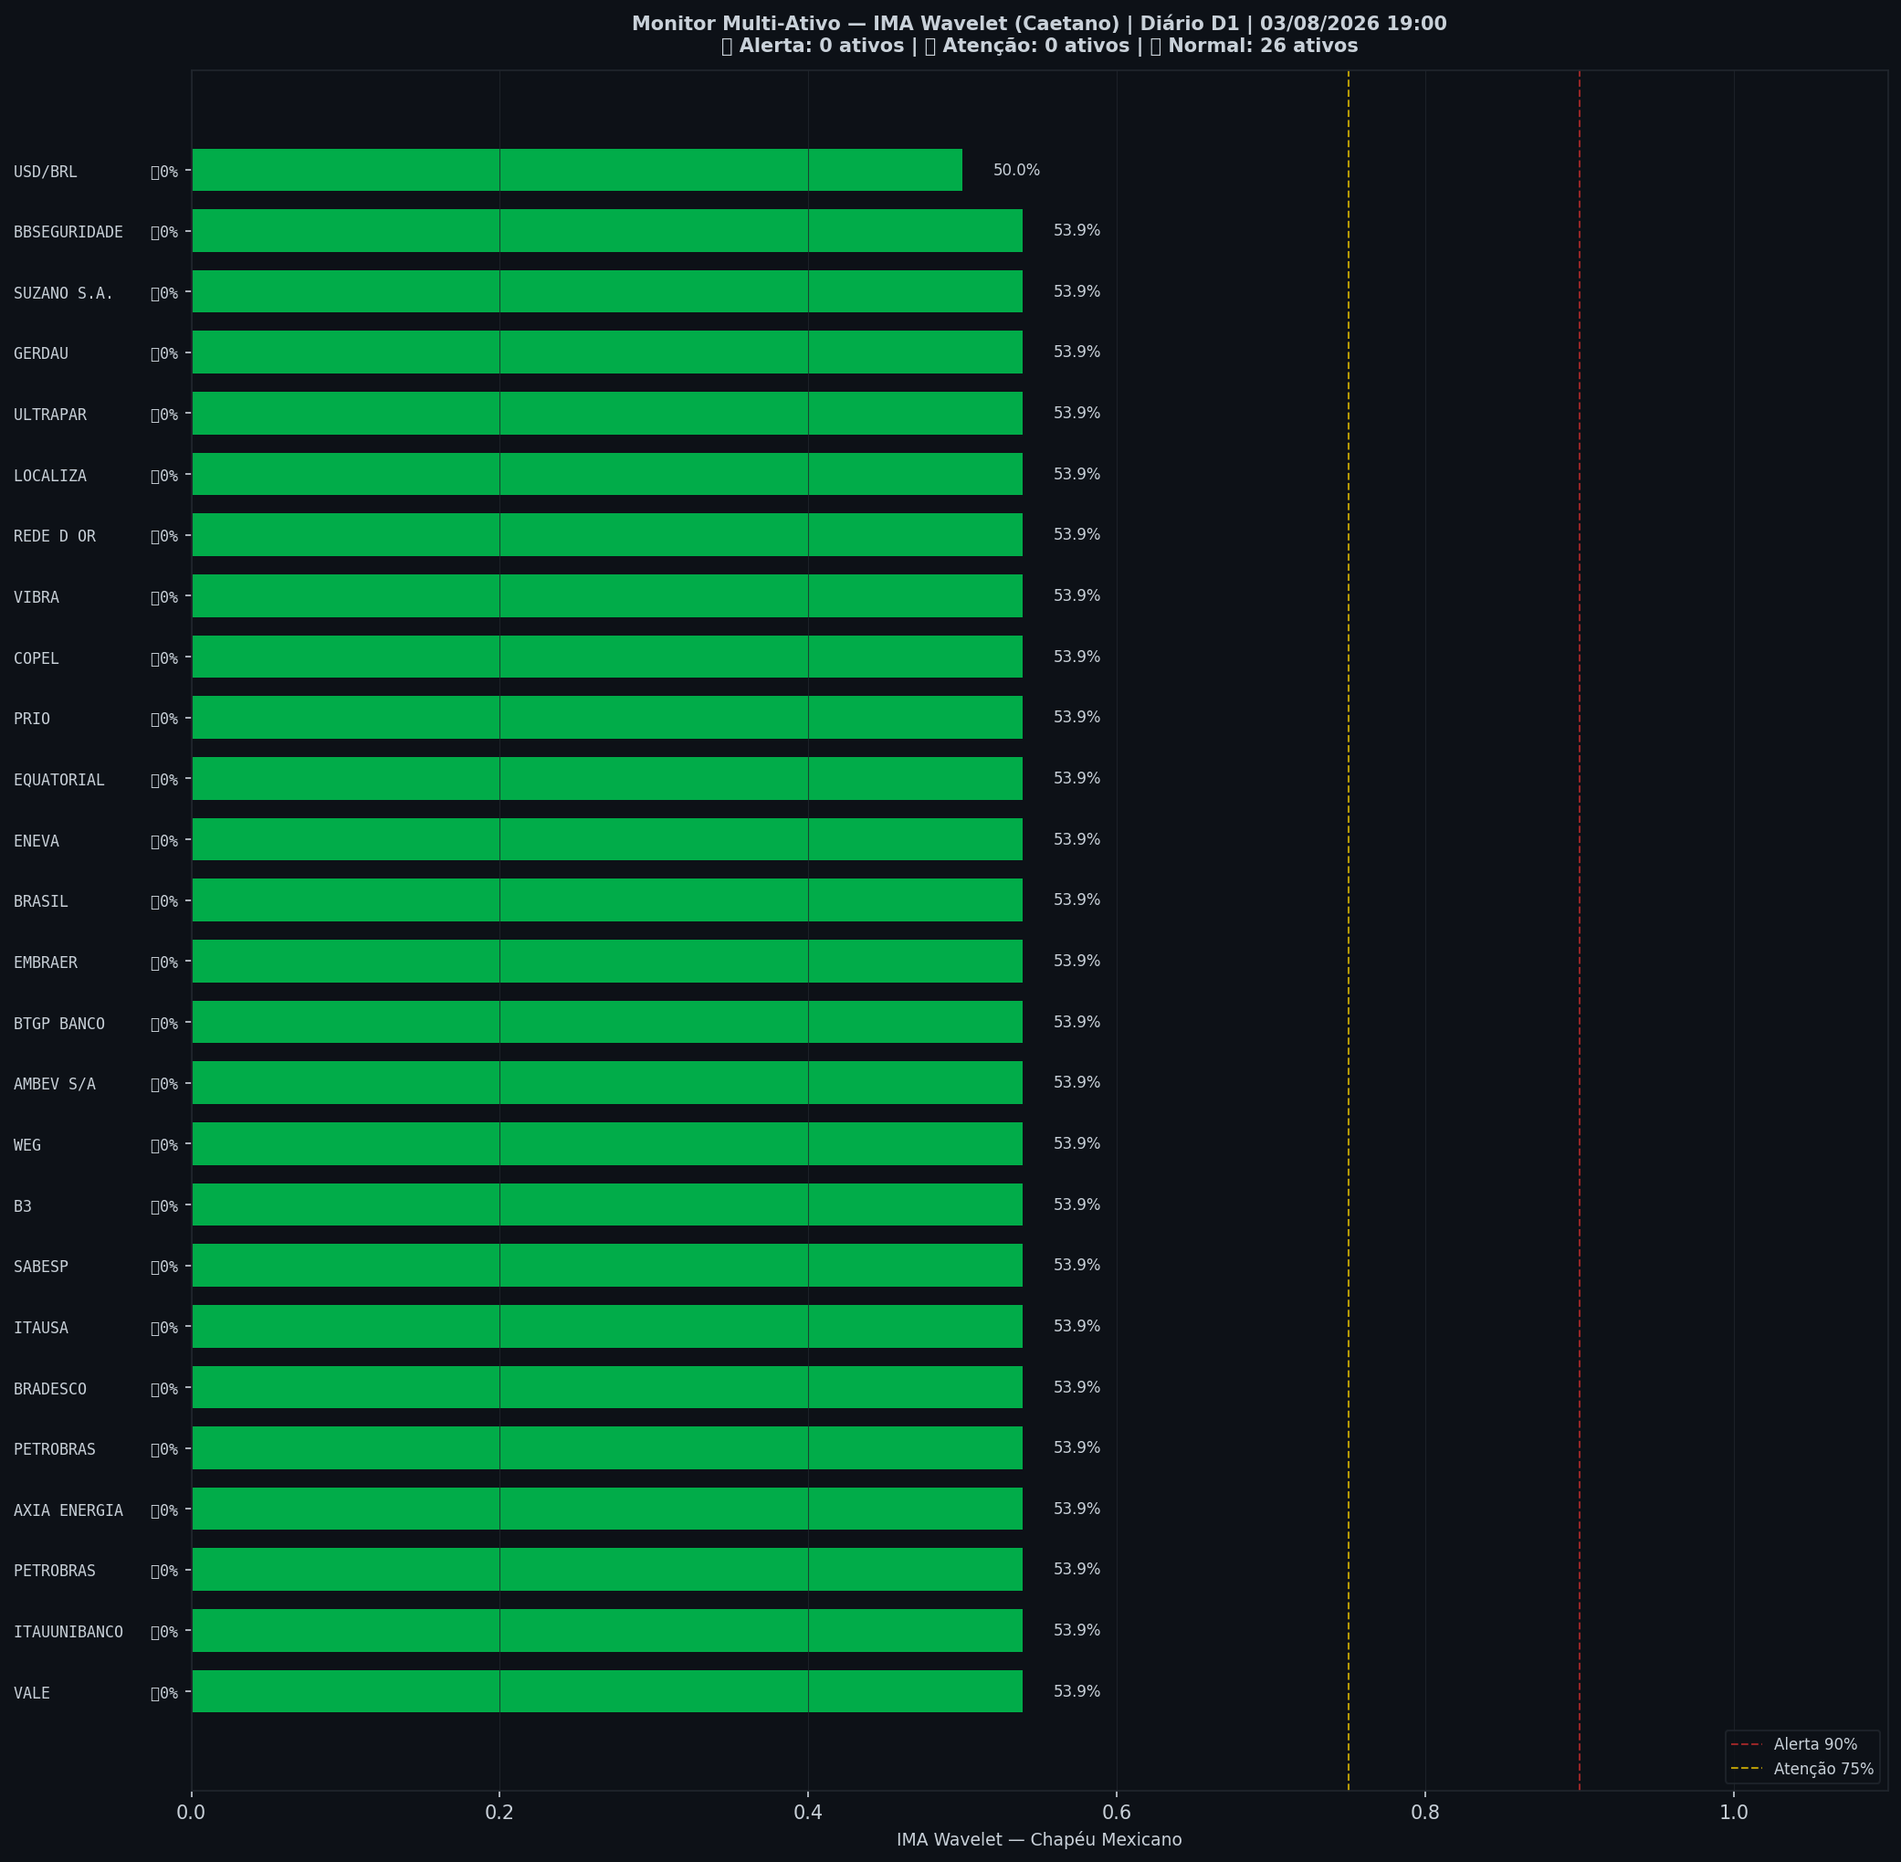
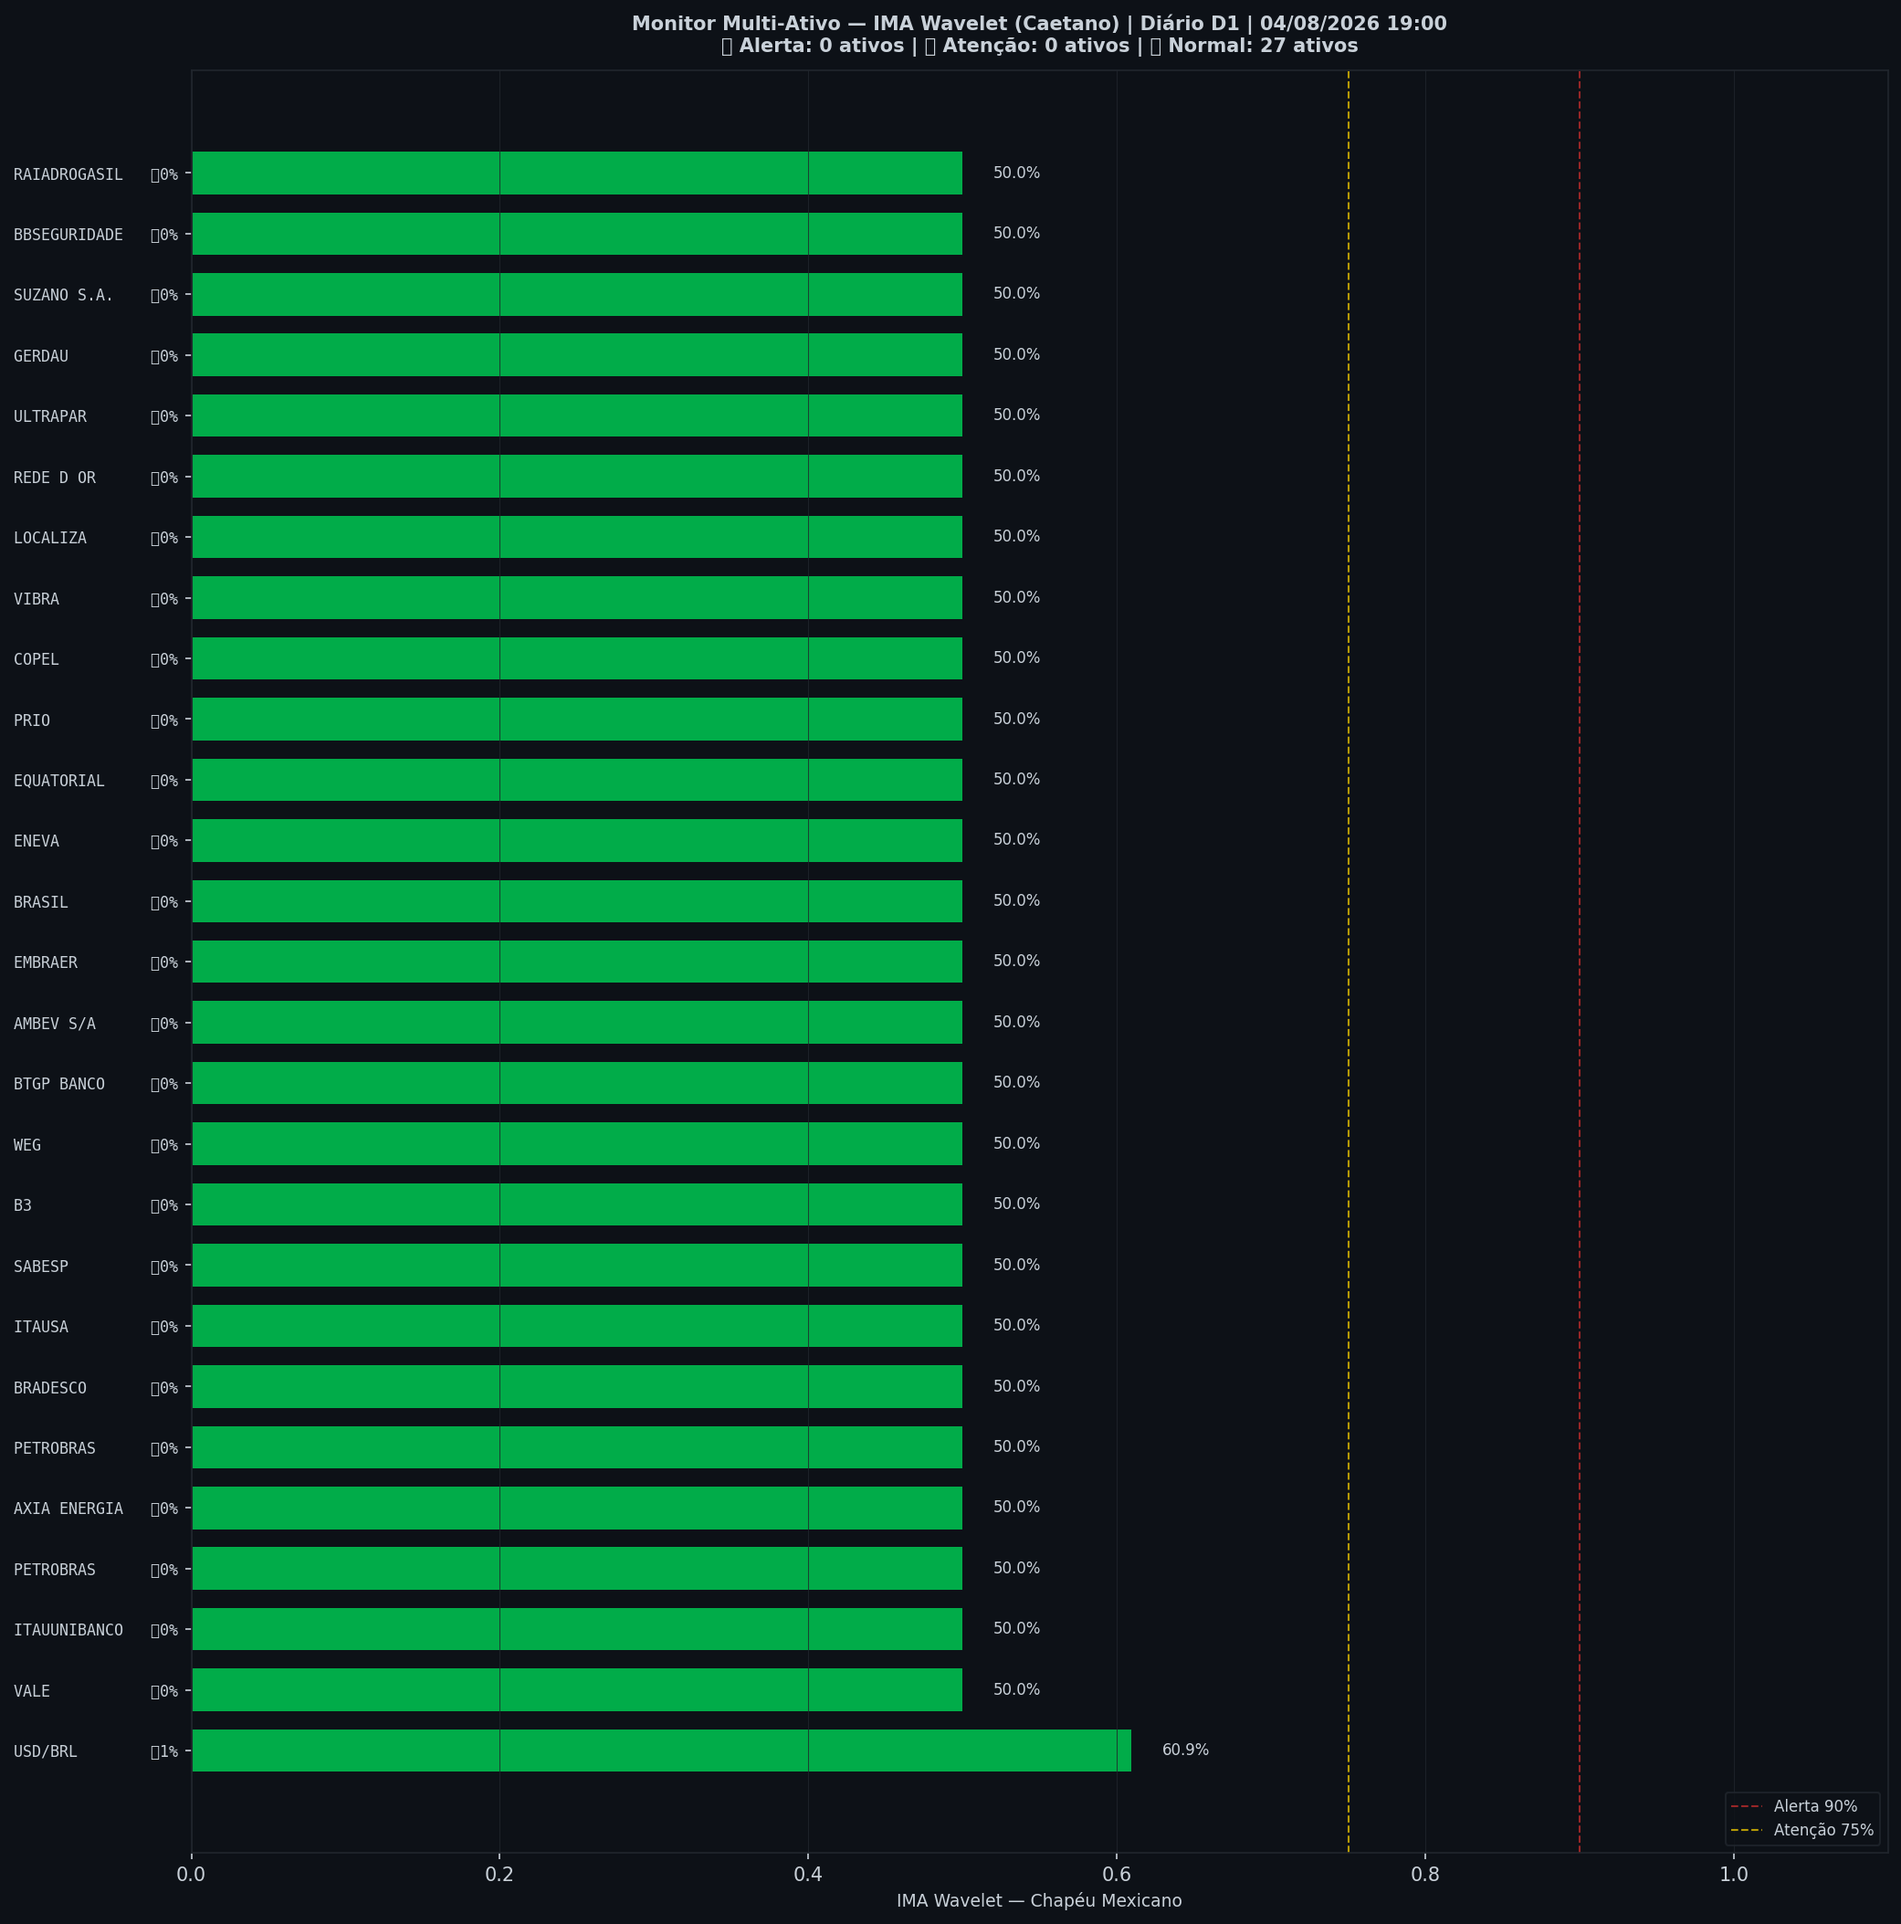
🤖 Auto: Sinal 04/08/2026 19:00

Changed region(s): [[0.0, 0.0927, 0.5932, 0.9269], [0.3746, 0.0, 0.7181, 0.0309], [0.9366, 0.9269, 0.999, 0.9578]]

diff --git a/content/diario/2026-08-03.md b/content/diario/2026-08-03.md
@@ -1,0 +1,105 @@
+---
+title: "🟢 Diário 03/08/2026 — VERDE"
+date: 2026-08-04
+tags: [diario]
+---
+
+> [!success] 🟢 **VERDE** — Risco 0% · ＝ +0 p.p. vs leitura anterior
+> `░░░░░░░░░░░░░░░░░░░░`
+> Mercado sem sinais relevantes de estresse.
+
+
+| Indicador | Valor |
+|---|---|
+| 🔴 ζ Crash — severidade da queda em curso | **0%** |
+| 🔵 ζ Entrada — estrutura de fundo | 59% |
+| 🫧 LPPL DS-Confidence | 0% |
+| 📊 Ibovespa | 177.895 pts |
+
+![Gráfico do sinal](../graficos/sinal_diario.png)
+
+## Últimos 30 pregões
+
+| Data | Zona | Risco | IMA Crash | Entrada | LPPL |
+|---|---|---|---|---|---|
+| 2026-08-03 21:00 | 🟢 VERDE | **0%** | 0% | 59% | 0% |
+| 2026-08-02 21:00 | 🟢 VERDE | **0%** | 0% | 62% | 0% |
+| 2026-07-30 21:00 | 🟢 VERDE | **0%** | 0% | 65% | 0% |
+| 2026-07-29 21:00 | 🟢 VERDE | **0%** | 0% | 68% | 0% |
+| 2026-07-28 21:00 | 🟢 VERDE | **0%** | 0% | 69% | 0% |
+| 2026-07-27 21:00 | 🟢 VERDE | **0%** | 1% | 68% | 0% |
+| 2026-07-26 21:00 | 🟢 VERDE | **0%** | 1% | 71% | 0% |
+| 2026-07-23 21:00 | 🟢 VERDE | **0%** | 0% | 71% | 0% |
+| 2026-07-22 21:00 | 🟢 VERDE | **0%** | 0% | 73% | 0% |
+| 2026-07-21 21:00 | 🟢 VERDE | **0%** | 0% | 77% | 0% |
+| 2026-07-20 21:00 | 🟢 VERDE | **0%** | 0% | 80% | 0% |
+| 2026-07-19 21:00 | 🟢 VERDE | **0%** | 1% | 79% | 0% |
+| 2026-07-16 21:00 | 🟢 VERDE | **0%** | 0% | 80% | 0% |
+| 2026-07-15 21:00 | 🟢 VERDE | **0%** | 1% | 80% | 0% |
+| 2026-07-14 21:00 | 🟢 VERDE | **1%** | 2% | 81% | 0% |
+| 2026-07-13 21:00 | 🟢 VERDE | **0%** | 1% | 85% | 0% |
+| 2026-07-12 21:00 | 🟢 VERDE | **0%** | 0% | 91% | 0% |
+| 2026-07-09 21:00 | 🟢 VERDE | **0%** | 0% | 91% | 0% |
+| 2026-07-08 21:00 | 🟢 VERDE | **0%** | 1% | 94% | 0% |
+| 2026-07-07 21:00 | 🟢 VERDE | **0%** | 1% | 93% | 0% |
+| 2026-07-06 21:00 | 🟢 VERDE | **0%** | 0% | 91% | 0% |
+| 2026-07-05 21:00 | 🟢 VERDE | **0%** | 0% | 93% | 0% |
+| 2026-07-02 21:00 | 🟢 VERDE | **0%** | 0% | 94% | 0% |
+| 2026-07-01 21:00 | 🟢 VERDE | **0%** | 1% | 94% | 0% |
+| 2026-06-30 21:00 | 🟢 VERDE | **0%** | 1% | 94% | 0% |
+| 2026-06-29 21:00 | 🟢 VERDE | **0%** | 0% | 95% | 0% |
+| 2026-06-28 21:00 | 🟢 VERDE | **0%** | 0% | 96% | 0% |
+| 2026-06-25 21:00 | 🟢 VERDE | **0%** | 0% | 98% | 0% |
+| 2026-06-24 21:00 | 🟢 VERDE | **0%** | 0% | 98% | 0% |
+| 2026-06-23 21:00 | 🟢 VERDE | **0%** | 0% | 99% | 0% |
+
+## Monitor Multi-Ativo
+
+**0% dos ativos em tensão** (0🔴 0🟡) — quanto mais ativos disparam juntos, mais confiável o sinal.
+
+| Zona | Ativo | Setor | IMA Crash | IMA Entrada |
+|---|---|---|---|---|
+| 🟢 | **USD/BRL** | Câmbio | 60.9% | 0.8% |
+| 🟢 | **VALE** | Mineração | 50.0% | 0.0% |
+| 🟢 | **ITAUUNIBANCO** | Financeiro | 50.0% | 0.0% |
+| 🟢 | **PETROBRAS** | Petróleo | 50.0% | 0.0% |
+| 🟢 | **AXIA ENERGIA** | Energia | 50.0% | 0.0% |
+| 🟢 | **PETROBRAS** | Petróleo | 50.0% | 0.0% |
+| 🟢 | **BRADESCO** | Financeiro | 50.0% | 0.0% |
+| 🟢 | **ITAUSA** | Financeiro | 50.0% | 0.0% |
+| 🟢 | **SABESP** | Saneamento | 50.0% | 0.0% |
+| 🟢 | **B3** | Financeiro | 50.0% | 0.0% |
+| 🟢 | **WEG** | Industrial | 50.0% | 0.0% |
+| 🟢 | **BTGP BANCO** | Financeiro | 50.0% | 0.0% |
+| 🟢 | **AMBEV S/A** | Consumo | 50.0% | 0.0% |
+| 🟢 | **EMBRAER** | Outros | 50.0% | 0.0% |
+| 🟢 | **BRASIL** | Financeiro | 50.0% | 0.0% |
+| 🟢 | **ENEVA** | Energia | 50.0% | 0.0% |
+| 🟢 | **EQUATORIAL** | Energia | 50.0% | 0.0% |
+| 🟢 | **PRIO** | Petróleo | 50.0% | 0.0% |
+| 🟢 | **COPEL** | Energia | 50.0% | 0.0% |
+| 🟢 | **VIBRA** | Energia | 50.0% | 0.0% |
+| 🟢 | **LOCALIZA** | Aluguel | 50.0% | 0.0% |
+| 🟢 | **REDE D OR** | Saúde | 50.0% | 0.0% |
+| 🟢 | **ULTRAPAR** | Outros | 50.0% | 0.0% |
+| 🟢 | **GERDAU** | Siderurgia | 50.0% | 0.0% |
+| 🟢 | **SUZANO S.A.** | Papel/Celulose | 50.0% | 0.0% |
+| 🟢 | **BBSEGURIDADE** | Financeiro | 50.0% | 0.0% |
+| 🟢 | **RAIADROGASIL** | Outros | 50.0% | 0.0% |
+
+![Monitor multi-ativo](../graficos/multi_diario.png)
+
+*Página atualizada em 04/08/2026 19:00 BRT (leitura da barra de 2026-08-03 BRT).*
+
+> [!info]- Como interpretar (clique para expandir)
+> - **ζ Crash**: fração dos coeficientes wavelet acima do corte (Caetano & Yoneyama 2009). Escala absoluta: ζ=0,90 = 90% dos coeficientes anômalos — historicamente, quedas com ζ≥0,90 foram mais fundas e mais longas. **Mede a severidade do movimento em curso, não prevê o início da queda.**
+> - **ζ Entrada**: coeficientes negativos além do corte — estrutura de fundo, possível região de compra.
+> - **LPPL DS-Confidence**: fração de janelas (60–504 pregões) em que o modelo de bolha de Sornette produz um ajuste válido. 30% já é relevante; acima de 50% é forte evidência de estrutura de bolha.
+> - **Zonas com histerese**: o sinal só muda de zona ao cruzar o limiar de entrada, e só volta ao cruzar o de saída — evita flip-flop diário.
+
+
+---
+*Sinal de Crise B3 v4 · IMA Wavelet ([Caetano & Yoneyama, Physica-A 2007](https://doi.org/10.1016/j.physa.2007.03.054)) + LPPL DS-Confidence (Sornette, ETH-Zurich) · [Metodologia](metodologia) · [Histórico](historico)*
+
+> [!quote]- Aviso
+> Estudo acadêmico. Não constitui recomendação de investimento.

diff --git a/content/index.md b/content/index.md
@@ -8,7 +8,7 @@ tags: [home]
 
 Monitoramento diário e intraday do Ibovespa — **IMA Wavelet** (Prof. Marco Antonio Leonel Caetano, ITA/INSPER) + **LPPL DS-Confidence** (Prof. Didier Sornette, ETH-Zurich).
 
-*Última atualização: 04/08/2026 17:30 BRT · ^BVSP · Intraday 15min · v4*
+*Última atualização: 04/08/2026 19:00 BRT · ^BVSP · Diário D1 · v4*
 
 > [!success] 🟢 **VERDE** — Risco 0% · ＝ +0 p.p. vs leitura anterior
 > `░░░░░░░░░░░░░░░░░░░░`
@@ -18,11 +18,11 @@ Monitoramento diário e intraday do Ibovespa — **IMA Wavelet** (Prof. Marco An
 | Indicador | Valor |
 |---|---|
 | 🔴 ζ Crash — severidade da queda em curso | **0%** |
-| 🔵 ζ Entrada — estrutura de fundo | 23% |
+| 🔵 ζ Entrada — estrutura de fundo | 59% |
 | 🫧 LPPL DS-Confidence | 0% |
-| 📊 Ibovespa | 177.733 pts |
+| 📊 Ibovespa | 177.895 pts |
 
-**Multi-ativo:** 96% em tensão (26🔴 0🟡 de 27 ativos)
+**Multi-ativo:** 0% em tensão (0🔴 0🟡 de 27 ativos)
 
 
 > [!tip]- Calibração v4 (backtest 15y)
@@ -32,8 +32,13 @@ Monitoramento diário e intraday do Ibovespa — **IMA Wavelet** (Prof. Marco An
 
 | Data | Zona | Risco | IMA | LPPL |
 |---|---|---|---|---|
-| [04 Aug 2026](diario/2026-08-04) | 🟢 VERDE | **0%** | 0% | 0% |
-| [03 Aug 2026](diario/2026-08-03) | 🟢 VERDE | **46%** | 46% | 0% |
+| [03 Aug 2026](diario/2026-08-03) | 🟢 VERDE | **0%** | 0% | 0% |
+| [02 Aug 2026](diario/2026-08-02) | 🟢 VERDE | **0%** | 0% | 0% |
+| [30 Jul 2026](diario/2026-07-30) | 🟢 VERDE | **0%** | 0% | 0% |
+| [29 Jul 2026](diario/2026-07-29) | 🟢 VERDE | **0%** | 0% | 0% |
+| [28 Jul 2026](diario/2026-07-28) | 🟢 VERDE | **0%** | 0% | 0% |
+| [27 Jul 2026](diario/2026-07-27) | 🟢 VERDE | **0%** | 1% | 0% |
+| [26 Jul 2026](diario/2026-07-26) | 🟢 VERDE | **0%** | 1% | 0% |
 
 ## Navegação
 

diff --git a/content/historico.md b/content/historico.md
@@ -7,6 +7,7 @@ tags: [historico]
 
 | Data | Modo | Zona | Risco | IMA | LPPL |
 |---|---|---|---|---|---|
+| 2026-08-03 | diario | 🟢 VERDE | 0% | 0% | 0% |
 | 2026-08-04 16:45 | intraday | 🟢 VERDE | 0% | 0% | 0% |
 | 2026-08-04 16:30 | intraday | 🟢 VERDE | 0% | 0% | 0% |
 | 2026-08-04 16:15 | intraday | 🟢 VERDE | 0% | 0% | 0% |
